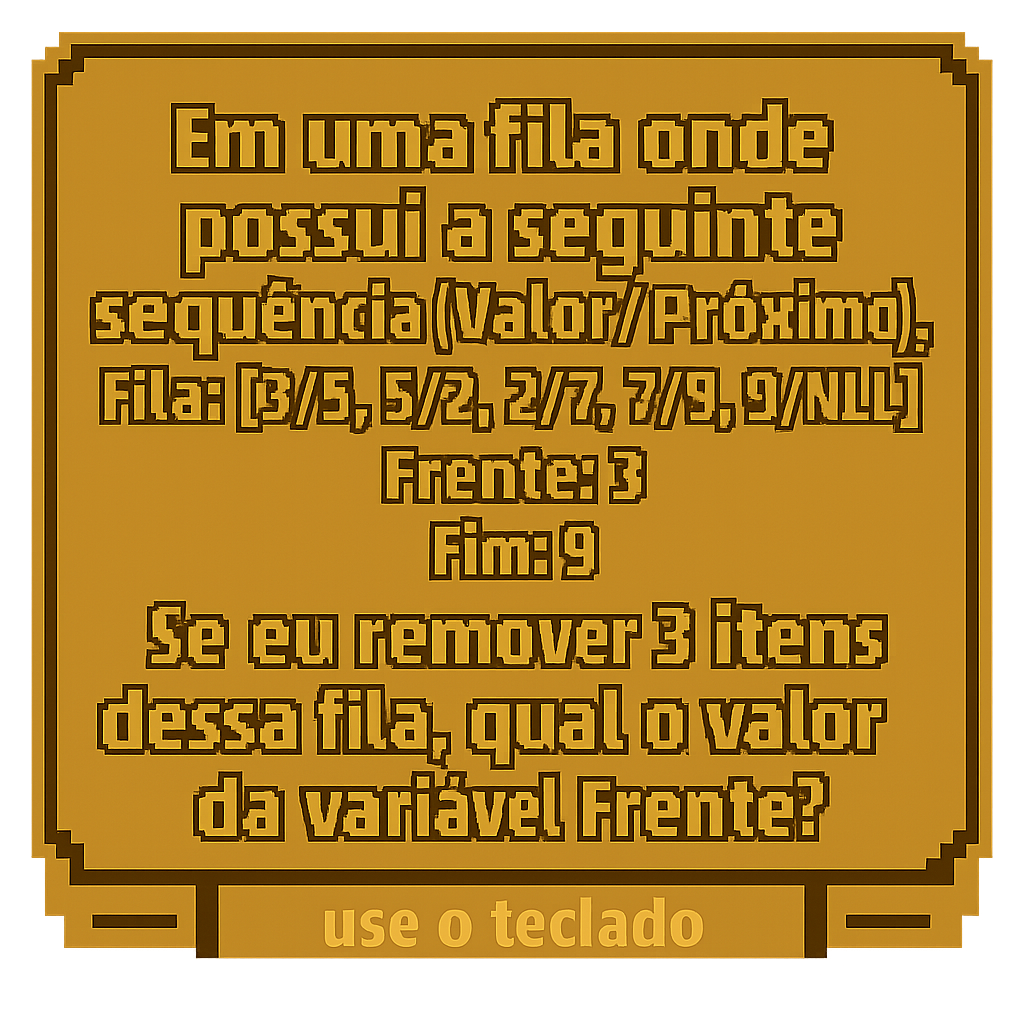
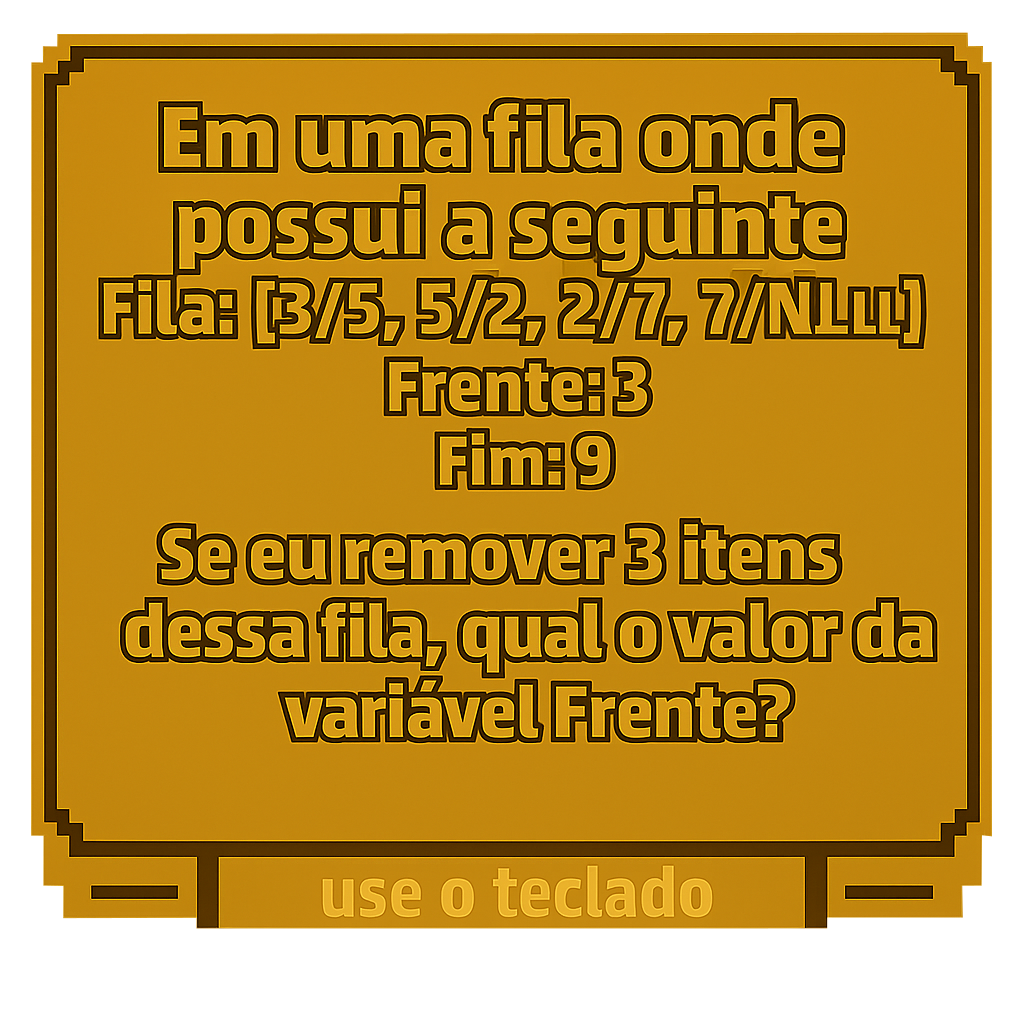
adicionando corretamente o readME, tinha colocado na pasta de dentro

diff --git a/jogo-vue-base/src/components/Boss2.vue b/jogo-vue-base/src/components/Boss2.vue
@@ -32,7 +32,7 @@ const spriteAlternado = ref("/fase2/bossVoltandoGrau.png");
 
 // Som da moto
 const roncoMoto = new Audio("/fase2/roncoMoto.mp3");
-roncoMoto.volume = 1.0;
+roncoMoto.volume = 0.2;
 roncoMoto.loop = true;
 let somTocou = false;
 
@@ -56,7 +56,7 @@ onMounted(() => {
   intervaloBoss = setInterval(() => {
     if (!bossPodeAndar) return;
 
-    bossX.value += direcaoBoss * 25;
+    bossX.value += direcaoBoss * 10;
 
     if (bossX.value <= limiteEsquerdo) {
       // Vai mudar pra direita
@@ -80,13 +80,13 @@ onMounted(() => {
       const r1 = playerEl.getBoundingClientRect();
       const r2 = bossEl.getBoundingClientRect();
 
-      // Expande a hitbox da moto em 10px para cada lado
+      // Expande a hitbox da moto em 20px para cada lado
       const r2Expandido = {
-        left: r2.left - 10,
-        right: r2.right + 10,
-        top: r2.top - 10,
-        bottom: r2.bottom + 10,
-      };
+  left: r2.left + 20,
+  right: r2.right - 20,
+  top: r2.top + 20,      // Encurta por cima
+  bottom: r2.bottom - 20 // Encurta por baixo
+};
 
       const colidiu =
         r1.left < r2Expandido.right &&

diff --git a/jogo-vue-base/src/components/Game4.vue b/jogo-vue-base/src/components/Game4.vue
@@ -26,7 +26,7 @@ const bossVidaInicial = 7;
 const perguntas = {
   bronze:  { resposta: "h", imagem: "/fase4/imgPerguntaBronze.png" },
   prata:   { resposta: "g", imagem: "/fase4/perguntaPrata.png" },
-  dourada: { resposta: "p", imagem: "/fase4/perguntaDourada.png" },
+  dourada: { resposta: "a", imagem: "/fase4/perguntaDourada.png" },
 };
 
 const moedas = {

diff --git a/jogo-vue-base/src/components/Player.vue b/jogo-vue-base/src/components/Player.vue
@@ -35,8 +35,8 @@ watch(
 );
 
 const speed = 6;
-const jumpForce = 35;
-const gravity = 0.8;
+const jumpForce = 30;
+const gravity = 0.6;
 let velocityY = 0;
 const somPulo = new Audio("/somPulo.mp3");
 somPulo.volume = 1.0;

diff --git a/jogo-vue-base/src/components/GameTemplate.vue b/jogo-vue-base/src/components/GameTemplate.vue
@@ -1086,7 +1086,6 @@ function levarDano() {
 
 .img-pergunta {
   width: 500px;
-  image-rendering: pixelated;
   pointer-events: none;
 }
 

diff --git a/README.md b/README.md
@@ -1,88 +1,87 @@
-# <h2 align="center">🎮 Corrida dos Mestres – Jogo 2D em Pixel Art 🎮</h2>
+# 🎮 JOGO CORRIDA DOS MESTRES – 2D em Pixel Art 🎮
 
-## 📌 Sobre o projeto  
+## 🧠 SUPORTE COM INTELIGÊNCIA ARTIFICIAL
 
-**Corrida dos Mestres** é um jogo 2D com visão top-down em estilo pixel art, desenvolvido como trabalho prático da disciplina de **Front-End**, ministrada pelo professor **Hugo Fumero**, na **Unicesumar**. O projeto une criatividade, referências internas da faculdade e interação entre os jogadores, com fases inspiradas em professores reais, obstáculos temáticos e um sistema de ranking online.
+Durante o desenvolvimento do jogo, utilizamos **IA (ChatGPT Plus e Free)** como ferramenta de apoio. Usamos a IA tanto para validar ideias de funcionalidades quanto para nos auxiliar na geração de imagens como HQs, sprites, perguntas e moedas. 
 
----
+O processo de interação com a IA foi sempre cuidadoso: ao invés de copiar e colar respostas prontas, buscávamos compreender a fundo o que estava sendo sugerido, adaptando ao nosso contexto. Também fizemos vários testes e ajustes manuais para manter o controle total sobre o código e a identidade do jogo.
 
-## 🚀 Tecnologias utilizadas  
+Um exemplo interessante foi o uso da IA para gerar uma HQ com o seguinte trecho criado por Pedro:
 
-O projeto foi desenvolvido utilizando as seguintes tecnologias:
+> “Após derrotar o Professor Hugo Fumero, e com os céus ainda tingidos de roxo digital, o aluno cai de joelhos — exausto, suado, mas ainda segurando a carta. Do céu desce uma figura encapuzada, cercada por um brilho dourado: o Dono da Unicesumar. [...]  
+> Dentro da carta está escrito: 'Aquele que encontrar esta mensagem é digno de conhecer a verdadeira verdade: você agora é o novo dono da Unicesumar.' [...]  
+> O Dono se desfaz em partículas de luz. O aluno é deixado com um crachá dourado: 'REITOR – NÍVEL 99'. Fim.”
 
-- ✅ **HTML5** – Estrutura da aplicação e canvas do jogo  
-- ✅ **CSS3** – Estilização dos elementos e cenários  
-- ✅ **JavaScript** – Lógica principal do jogo, movimentação, colisões e fases  
-- ✅ **Firebase (opcional)** – Armazenamento e exibição do ranking online  
-- ✅ **Vue.js / React (modularização futura)** – Estruturação de componentes reutilizáveis  
-- ✅ **Pixel Art Assets** – Criação visual inspirada em jogos retrô  
-- ✅ **Inteligência Artificial** – Suporte na criação de arte, roteiro, personagens e código  
+Com base nisso, a IA gerou uma HQ de 6 quadros em pixel art retrô. O Pedro e o Murilo lideraram todo o processo visual, garantindo que o estilo e a narrativa estivessem alinhados com o jogo.
 
 ---
 
-## 🎯 Funcionalidades  
+## 🔄 VERSIONAMENTO
 
-✔ **Estética pixel art retrô** – Visual nostálgico inspirado em jogos clássicos  
-✔ **Fases com professores reais** – Obstáculos e desafios personalizados em cada fase  
-✔ **Ranking online competitivo** – Estímulo à interação entre os jogadores  
-✔ **Narrativa com plot twist final** – Missão divertida com reviravolta inesperada  
-✔ **Alta jogabilidade** – Movimento fluido e sistema de colisão funcional  
-✔ **Referências internas da faculdade** – Humor e identificação para os alunos  
-✔ **Código limpo e modular** – Preparado para expansão futura  
+Utilizamos o **Git** para controle de versão, conforme aprendemos nas aulas do professor Hugo Fumero. Nosso primeiro repositório teve alguns problemas de conflitos nos commits. Por isso, criamos um novo repositório no perfil do Rafael, que passou a organizar o fluxo principal.
+
+### 🧪 Fluxo de Trabalho
+
+1. Cada membro fez um fork do repositório principal.
+2. Clonamos com `git clone <URL>`.
+3. Rodamos `npm install` e `npm run dev` no terminal do VS Code.
+4. Após mudanças, usamos:
+   - `git add .`
+   - `git commit -m "mensagem"`
+   - `git push origin main`
+5. Criamos Pull Requests, que eram revisados e aceitos.
+6. Sempre mantivemos o repositório atualizado com `git pull origin main`.
 
 ---
 
-## 👥 Participantes  
+## 🧩 DIVISÃO DA EQUIPE
+
+Como nem todos se sentiam confortáveis em codar, organizamos o grupo em **duplas por fase**. Enquanto uns cuidavam da lógica e da programação, outros colaboravam com sprites, design, narrativa e ideias.
+
+Isso evitou conflitos e bugs causados por edições simultâneas, problema que enfrentamos no primeiro repositório:  
+https://github.com/vitorhassis/Jogo-Corrida-Dos-Mestres
+
+A estrutura foi dividida em:
+- `Game1.vue`
+- `Game2.vue`
+- `Game3.vue`
+- `Game4.vue`
+
+Cada fase teve uma dupla responsável, com liberdade para propor ideias e testar soluções. O Murilo, por exemplo, dedicou muito tempo aos sprites animados dos bosses — um trabalho que fez toda a diferença na entrega final, mesmo sem aparecer diretamente nos commits.
+
+Mesmo com os desafios, entregamos um jogo funcional, original e com identidade própria — do enredo à jogabilidade.
+
+---
+
+## 👨💻 INTEGRANTES
 
 - **Fernando Queiroz** – Desenvolvimento geral, prompts e lógica do jogo  
 - **Murilo Pagotto Specian** – Criação de personagens e parte visual  
 - **Pedro H. G. Cavalini** – Design dos cenários e construção das fases  
 - **Rafael R. O. Santos** – Programação da movimentação e mecânica dos obstáculos  
-- **Vitor H. Assis da Silva** – Organização do projeto, estrutura geral e documentação
-- **Kauan Marcolino Garcia** – Desenvolvimento geral, prompts e lógica do jogo
+- **Vitor H. Assis da Silva** – Organização do projeto, estrutura geral e documentação  
+- **Kauan Marcolino Garcia** – Desenvolvimento geral, prompts e lógica do jogo  
 
 ---
 
-## 📩 Contato  
+## 📩 CONTATO
 
-📧 **Email:** [vitorassis997@gmail.com](mailto:vitorassis997@gmail.com)  
-👨💻 **GitHub:** [github.com/vitorhassis](https://github.com/vitorhassis)  
+- **Vitor H. Assis da Silva**  
+  GitHub: [vitorhassis](https://github.com/vitorhassis)  
+  Email: vitorassis997@gmail.com
 
----
+- **Rafael R. O. Santos**  
+  GitHub: [Rafaelbrk75](https://github.com/Rafaelbrk75)
 
-## 🛠 Como executar o projeto localmente  
+- **Murilo Pagotto Specian**  
+  GitHub: [Muriilo12](https://github.com/Muriilo12)
 
-Siga os passos abaixo para rodar o projeto na sua máquina:
+- **Fernando Queiroz**  
+  GitHub: [ferqueiroz](https://github.com/ferqueiroz)
 
-1. **Instale o Node.js**  
-Acesse o site [https://nodejs.org](https://nodejs.org) e baixe a versão recomendada. Siga o instalador até o fim.
-
-2. **Clone este repositório**  
-Abra o terminal e digite o comando abaixo para clonar o projeto:  
-`git clone https://github.com/seu-usuario/corrida-dos-mestres.git`
-
-3. **Acesse a pasta do projeto**  
-Entre na pasta do projeto com o seguinte comando:  
-`cd corrida-dos-mestres`
-
-4. **Instale as dependências**  
-Com o terminal ainda aberto, instale os pacotes necessários com:  
-`npm install`
-
-5. **Execute o projeto**  
-Inicie o servidor local com o comando:  
-`npm run dev`
-
-6. **Abra no navegador**  
-Acesse `http://localhost:5173/` no navegador para ver o jogo rodando.
+- **Pedro H. G. Cavalini**  
+  GitHub: [PedroCavalini](https://github.com/PedroCavalini)
 
 ---
 
-> ⚠ Se preferir criar um novo projeto manualmente com Vite, use:  
-`npm create vite@latest`
-
----
-
-<p align="center">⚡ <em>Projeto criado com criatividade, referência acadêmica e o auxílio da IA</em> ⚡</p>
-
- 
+⚡ *Projeto desenvolvido com criatividade, referência acadêmica e apoio estratégico de Inteligência Artificial.* ⚡
